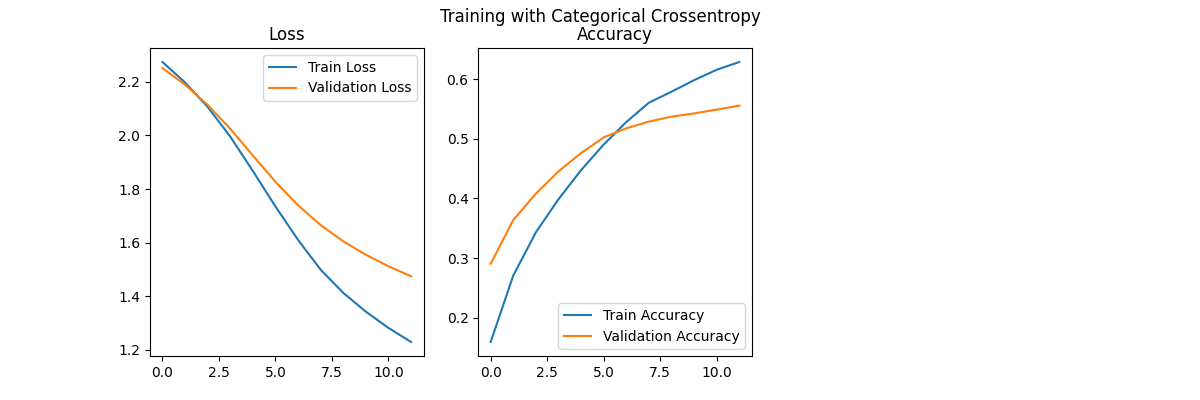
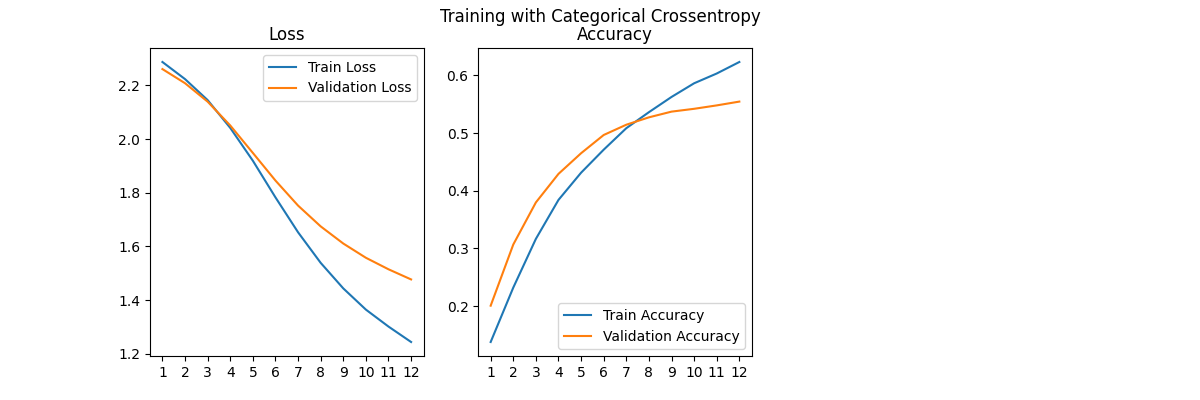
2

diff --git a/benchmarks/kuzushiji_mnist_cnn.py b/benchmarks/kuzushiji_mnist_cnn.py
@@ -61,18 +61,22 @@ def create_model(input_shape, num_classes):
 
 # 定义绘图函数
 def plot_metrics(history, title, filename):
+    epochs_range = range(1, len(history.history['loss']) + 1)
+    
     plt.figure(figsize=(12, 4))
     plt.subplot(1, 3, 1)
-    plt.plot(history.history['loss'], label='Train Loss')
-    plt.plot(history.history['val_loss'], label='Validation Loss')
+    plt.plot(epochs_range, history.history['loss'], label='Train Loss')
+    plt.plot(epochs_range, history.history['val_loss'], label='Validation Loss')
     plt.title('Loss')
     plt.legend()
+    plt.xticks(epochs_range)  # 设置横坐标为整数
 
     plt.subplot(1, 3, 2)
-    plt.plot(history.history['accuracy'], label='Train Accuracy')
-    plt.plot(history.history['val_accuracy'], label='Validation Accuracy')
+    plt.plot(epochs_range, history.history['accuracy'], label='Train Accuracy')
+    plt.plot(epochs_range, history.history['val_accuracy'], label='Validation Accuracy')
     plt.title('Accuracy')
     plt.legend()
+    plt.xticks(epochs_range)  # 设置横坐标为整数
 
     plt.suptitle(title)
     plt.savefig(filename)
